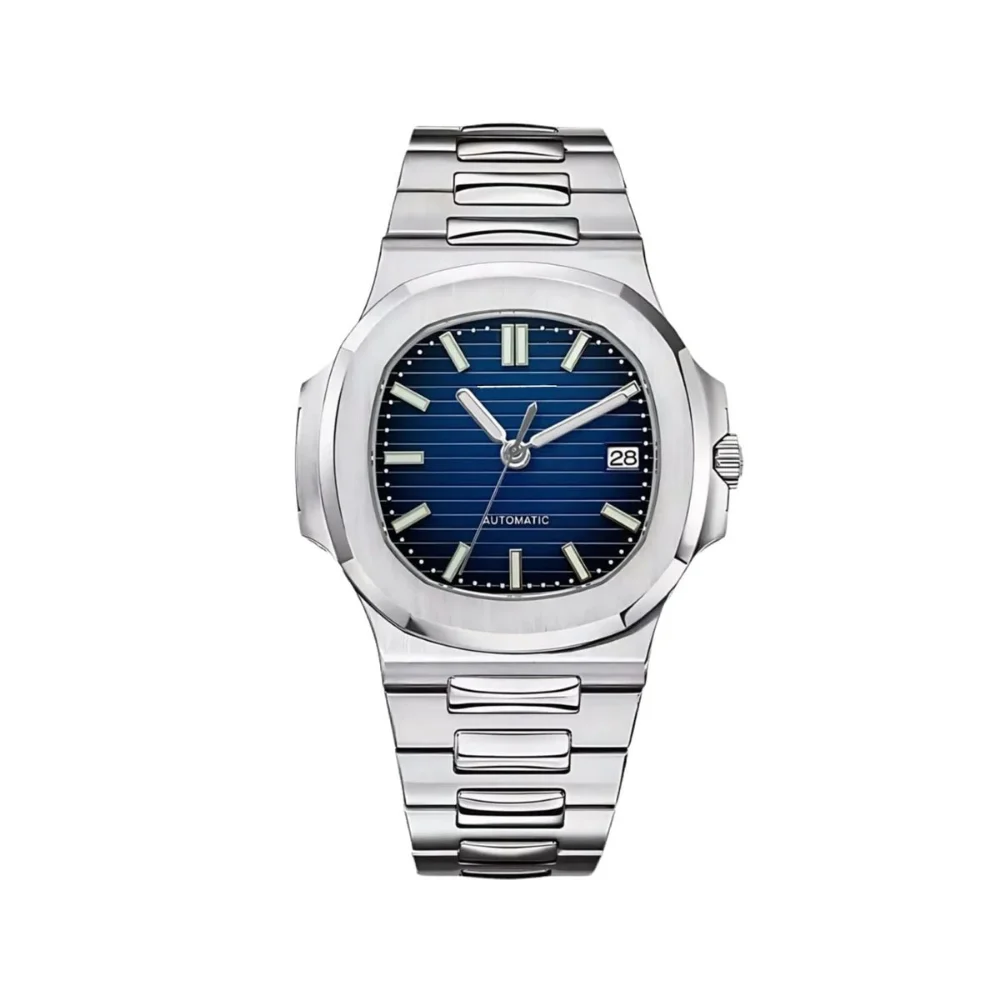
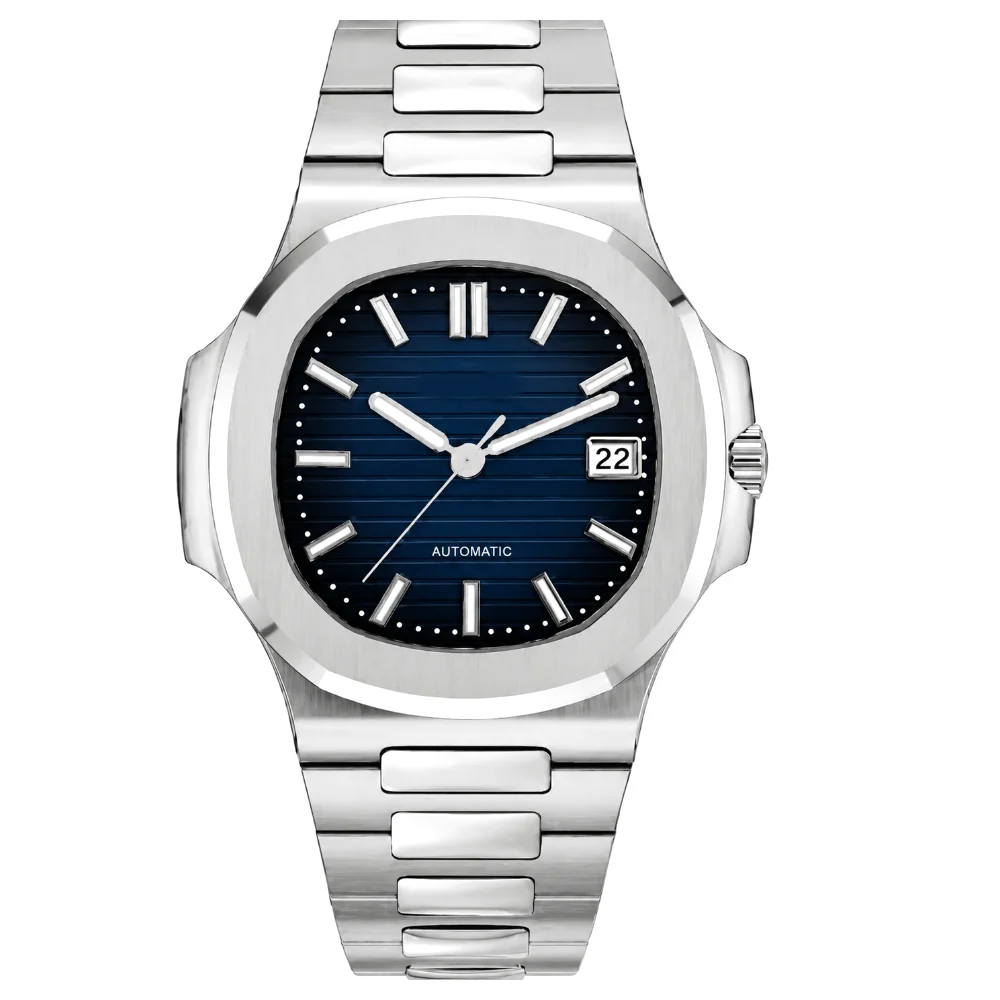
Use felliwatches.com photos for the Riviera blue, white and black
The black model is now the steel-bracelet version. Cards show a spec line,
the product sheet gets a delivery timeline with estimated dates and a
water-resistance FAQ entry. Competitor surveys kept as NOTES-*.md.

Claude-Session: https://claude.ai/code/session_01QYTtnYivgcTBrixsDKeieA

Changed region(s): [[0.155, 0.0, 0.775, 0.992]]

diff --git a/deha-watches/app.js b/deha-watches/app.js
@@ -8,46 +8,46 @@ const PRODUCTS = [
   {
     id: "riviera-bleu",
     name: "Riviera Bleu",
-    tag: "Sport-chic · Bracelet acier",
+    tag: "Sport-chic",
     price: 189,
     old: 249,
     badge: "Best-seller",
     img: "images/riviera-bleu.webp",
     variant: "riviera",
-    color: "#1e3f7a",
-    short: "Cadran bleu dégradé strié, index luminescents, date à 3 h.",
-    desc: "Un bleu profond qui s'éclaircit vers le centre et change selon la lumière. Index luminescents, date à 3 h et bracelet acier intégré au boîtier : la plus remarquée de la collection.",
-    highlights: ["Cadran bleu dégradé strié", "Index luminescents", "Bracelet acier intégré"],
-    specs: { Boîtier: "Acier 316L, 41 mm", Cadran: "Bleu dégradé strié", Mouvement: "Automatique", Verre: "Anti-rayures", Bracelet: "Acier 316L intégré", Étanchéité: "5 ATM" },
+    color: "#1e3a6e",
+    short: "Cadran bleu nuit dégradé, strié horizontalement.",
+    desc: "Un bleu nuit qui s'éclaircit vers le centre et change selon la lumière. Index luminescents, date à 3 h et bracelet acier intégré au boîtier : la plus remarquée des trois.",
+    highlights: ["Cadran bleu nuit dégradé", "Index et aiguilles luminescents", "Bracelet acier intégré"],
+    specs: { Boîtier: "Acier 316L, 41 mm", Cadran: "Bleu nuit dégradé strié", Mouvement: "Automatique", Verre: "Saphir anti-rayures", Bracelet: "Acier 316L intégré", Étanchéité: "10 ATM (100 m)" },
   },
   {
     id: "riviera-blanc",
     name: "Riviera Blanc",
-    tag: "Sport-chic · Bracelet acier",
+    tag: "Sport-chic",
     price: 189,
     old: 249,
     img: "images/riviera-blanc.webp",
     variant: "riviera",
     color: "#ecebe7",
-    short: "Cadran blanc strié, boîtier coussin, date à 3 h.",
+    short: "Cadran blanc strié, discret et lumineux.",
     desc: "La discrétion comme signature. Son cadran blanc strié capte la lumière avec subtilité, et son boîtier coussin aux flancs polis se prolonge dans le bracelet en une seule ligne. Aussi juste au bureau que le week-end.",
     highlights: ["Cadran blanc strié horizontal", "Boîtier coussin poli et brossé", "Date à 3 h"],
-    specs: { Boîtier: "Acier 316L, 41 mm", Cadran: "Blanc strié", Mouvement: "Automatique", Verre: "Anti-rayures", Bracelet: "Acier 316L intégré", Étanchéité: "5 ATM" },
+    specs: { Boîtier: "Acier 316L, 41 mm", Cadran: "Blanc strié", Mouvement: "Automatique", Verre: "Saphir anti-rayures", Bracelet: "Acier 316L intégré", Étanchéité: "10 ATM (100 m)" },
   },
   {
     id: "riviera-noir",
     name: "Riviera Noir",
-    tag: "Sport · Bracelet caoutchouc",
-    price: 199,
-    old: 259,
+    tag: "Sport-chic",
+    price: 189,
+    old: 249,
     badge: "Nouveau",
     img: "images/riviera-noir.webp",
     variant: "riviera",
     color: "#151515",
-    short: "Cadran noir quadrillé, chiffres arabes, bracelet caoutchouc.",
-    desc: "La version la plus sportive. Cadran noir à motif quadrillé, grands chiffres arabes luminescents et bracelet caoutchouc souple : légère au poignet, elle se porte aussi bien en ville qu'en vacances.",
-    highlights: ["Cadran noir quadrillé", "Chiffres arabes luminescents", "Bracelet caoutchouc confortable"],
-    specs: { Boîtier: "Acier 316L, 41 mm", Cadran: "Noir quadrillé", Mouvement: "Automatique", Verre: "Anti-rayures", Bracelet: "Caoutchouc", Étanchéité: "5 ATM" },
+    short: "Cadran noir profond, contraste maximal.",
+    desc: "La plus affirmée des trois. Le cadran noir strié fait ressortir les index luminescents et l'acier poli du boîtier : une montre qui se lit d'un coup d'œil et s'accorde avec tout.",
+    highlights: ["Cadran noir strié", "Index luminescents très lisibles", "Bracelet acier intégré"],
+    specs: { Boîtier: "Acier 316L, 41 mm", Cadran: "Noir strié", Mouvement: "Automatique", Verre: "Saphir anti-rayures", Bracelet: "Acier 316L intégré", Étanchéité: "10 ATM (100 m)" },
   },
 ];
 
@@ -76,6 +76,7 @@ function renderCards() {
         <p class="card__tag">${p.tag}</p>
         <h3>${p.name}</h3>
         <p class="card__short">${p.short}</p>
+        <p class="card__specs">41 mm · Automatique · Saphir · 10 ATM</p>
         <div class="price">${priceHTML(p)}</div>
         <div class="card__actions">
           <button class="btn btn--dark" data-add="${p.id}">Ajouter au panier</button>
@@ -136,6 +137,7 @@ function openModal(id) {
   $("[data-modal-price]").innerHTML = priceHTML(p);
   $("[data-modal-desc]").textContent = p.desc;
   $("[data-modal-qty]").textContent = modalQty;
+  renderTimeline();
   $("[data-modal-specs]").innerHTML = Object.entries(p.specs).map(([k, v]) => `<li><span>${k}</span><span>${v}</span></li>`).join("");
   const siblings = p.variant ? PRODUCTS.filter((x) => x.variant === p.variant) : [];
   $("[data-modal-variants]").innerHTML = siblings.length > 1
@@ -148,6 +150,20 @@ function openModal(id) {
   document.body.classList.add("no-scroll");
   $("[data-modal-close]").focus();
 }
+// Frise de livraison : commandé aujourd'hui, expédié le jour ouvré suivant, livré 4 à 7 jours ouvrés après
+function addWorkdays(date, n) {
+  const d = new Date(date);
+  while (n > 0) { d.setDate(d.getDate() + 1); if (d.getDay() % 6) n--; }
+  return d;
+}
+function renderTimeline() {
+  const fmt = (d) => d.toLocaleDateString("fr-FR", { weekday: "short", day: "numeric", month: "short" });
+  const now = new Date();
+  const ship = addWorkdays(now, 1);
+  const steps = [["Commandée", fmt(now)], ["Expédiée", fmt(ship)], ["Livrée", `${fmt(addWorkdays(ship, 4))} – ${fmt(addWorkdays(ship, 7))}`]];
+  $("[data-modal-timeline]").innerHTML = steps.map(([t, d]) => `<li><strong>${t}</strong><span>${d}</span></li>`).join("");
+}
+
 function closeModal() {
   const modal = $(".modal");
   modal.classList.remove("is-open");

diff --git a/deha-watches/index.html b/deha-watches/index.html
@@ -144,7 +144,7 @@
         <div class="reviews">
           <figure class="review">
             <span class="stars">★★★★★</span>
-            <blockquote>« La Riviera Noir sur caoutchouc est hyper confortable, je la porte tous les jours. Bien plus premium que ce que j'imaginais. »</blockquote>
+            <blockquote>« La Riviera Noir est encore plus belle en vrai, l'acier est très bien fini. Bien plus premium que ce que j'imaginais. »</blockquote>
             <figcaption>Client exemple · Riviera Noir</figcaption>
           </figure>
           <figure class="review">
@@ -173,7 +173,11 @@
         </details>
         <details class="faq">
           <summary>Quelle montre choisir&nbsp;?</summary>
-          <p>La Riviera Bleu pour un cadran qui attire le regard. La Riviera Blanc pour une élégance discrète, au bureau comme le week-end. La Riviera Noir, sur bracelet caoutchouc, pour un style plus sportif et léger.</p>
+          <p>La Riviera Bleu pour un cadran qui attire le regard. La Riviera Blanc pour une élégance discrète, au bureau comme le week-end. La Riviera Noir pour un contraste net qui s'accorde avec tout.</p>
+        </details>
+        <details class="faq">
+          <summary>Les montres sont-elles étanches&nbsp;?</summary>
+          <p>Elles sont annoncées étanches à 10 ATM (100 m)&nbsp;: pluie, lavage des mains et baignade sans plongée. Évitez le sauna et l'eau chaude.</p>
         </details>
         <details class="faq">
           <summary>Mes montres sont-elles garanties&nbsp;?</summary>
@@ -185,7 +189,7 @@
         </details>
         <details class="faq">
           <summary>Le bracelet est-il ajustable&nbsp;?</summary>
-          <p>Oui. Le bracelet acier des Riviera Bleu et Blanc se raccourcit en retirant des maillons, l'outil est fourni dans l'écrin. Le bracelet caoutchouc de la Riviera Noir se règle comme une ceinture.</p>
+          <p>Oui, le bracelet acier se raccourcit en retirant des maillons. L'outil est fourni dans l'écrin.</p>
         </details>
       </div>
     </section>
@@ -248,6 +252,7 @@
           <div class="qty"><button data-mq="-1" aria-label="Moins">−</button><span data-modal-qty>1</span><button data-mq="1" aria-label="Plus">+</button></div>
           <button class="btn btn--dark btn--grow" data-modal-add>Ajouter au panier</button>
         </div>
+        <ol class="timeline" data-modal-timeline aria-label="Estimation de livraison"></ol>
         <ul class="assure">
           <li>Expédiée sous 24 h · livraison offerte en 4 à 7 jours</li>
           <li>Garantie 2 ans · retours sous 30 jours</li>

diff --git a/deha-watches/style.css b/deha-watches/style.css
@@ -115,6 +115,7 @@ em { font-style: italic; color: var(--gold-dark); }
 .card__info { padding: 4px 24px 24px; display: flex; flex-direction: column; gap: 6px; flex: 1; }
 .card__tag { margin: 0; font-size: .7rem; letter-spacing: .14em; text-transform: uppercase; color: var(--muted); }
 .card h3 { font-size: 1.9rem; }
+.card__specs { margin: 0 0 4px; font-size: .74rem; letter-spacing: .04em; color: var(--muted); font-variant-numeric: tabular-nums; }
 .card__short { margin: 0 0 6px; color: var(--muted); font-size: .9rem; flex: 1; }
 .card__actions { display: flex; gap: 10px; flex-wrap: wrap; margin-top: 10px; }
 
@@ -215,6 +216,13 @@ em { font-style: italic; color: var(--gold-dark); }
 .qty--sm { margin-top: 6px; }
 .qty--sm button { width: 28px; height: 28px; font-size: .95rem; }
 .qty--sm span { font-size: .85rem; }
+.timeline { list-style: none; padding: 0; margin: 0 0 16px; display: grid; grid-template-columns: repeat(3, 1fr); position: relative; }
+.timeline::before { content: ""; position: absolute; top: 6px; left: 16%; right: 16%; height: 2px; background: var(--line); }
+.timeline li { position: relative; display: flex; flex-direction: column; align-items: center; text-align: center; gap: 2px; padding-top: 20px; font-size: .78rem; }
+.timeline li::before { content: ""; position: absolute; top: 0; width: 14px; height: 14px; border-radius: 50%; background: var(--white); border: 2px solid var(--gold-dark); }
+.timeline li:first-child::before { background: var(--gold-dark); }
+.timeline strong { font-weight: 600; }
+.timeline span { color: var(--muted); }
 .assure { list-style: none; padding: 16px 18px; margin: 0 0 20px; background: var(--cream); border-radius: 12px; display: grid; gap: 6px; font-size: .84rem; }
 .assure li::before { content: "✓ "; color: var(--gold-dark); }
 .specs { list-style: none; padding: 0; margin: 0; border-top: 1px solid var(--line); }

diff --git a/deha-watches/README.md b/deha-watches/README.md
@@ -18,4 +18,4 @@ Les avis clients de `index.html` sont des exemples, à remplacer par de vrais av
 
 Voir le site en local : `python3 -m http.server` dans ce dossier, puis http://localhost:8000
 
-`NOTES-reference.md` : relevé du site mosawatches.fr (structure, prix, caractéristiques) qui a servi d'inspiration.
+`NOTES-felliwatches.md` et `NOTES-mosawatches.md` : relevés des sites concurrents (structure, prix, caractéristiques) qui ont servi d'inspiration. Les photos actuelles viennent de felliwatches.com.
